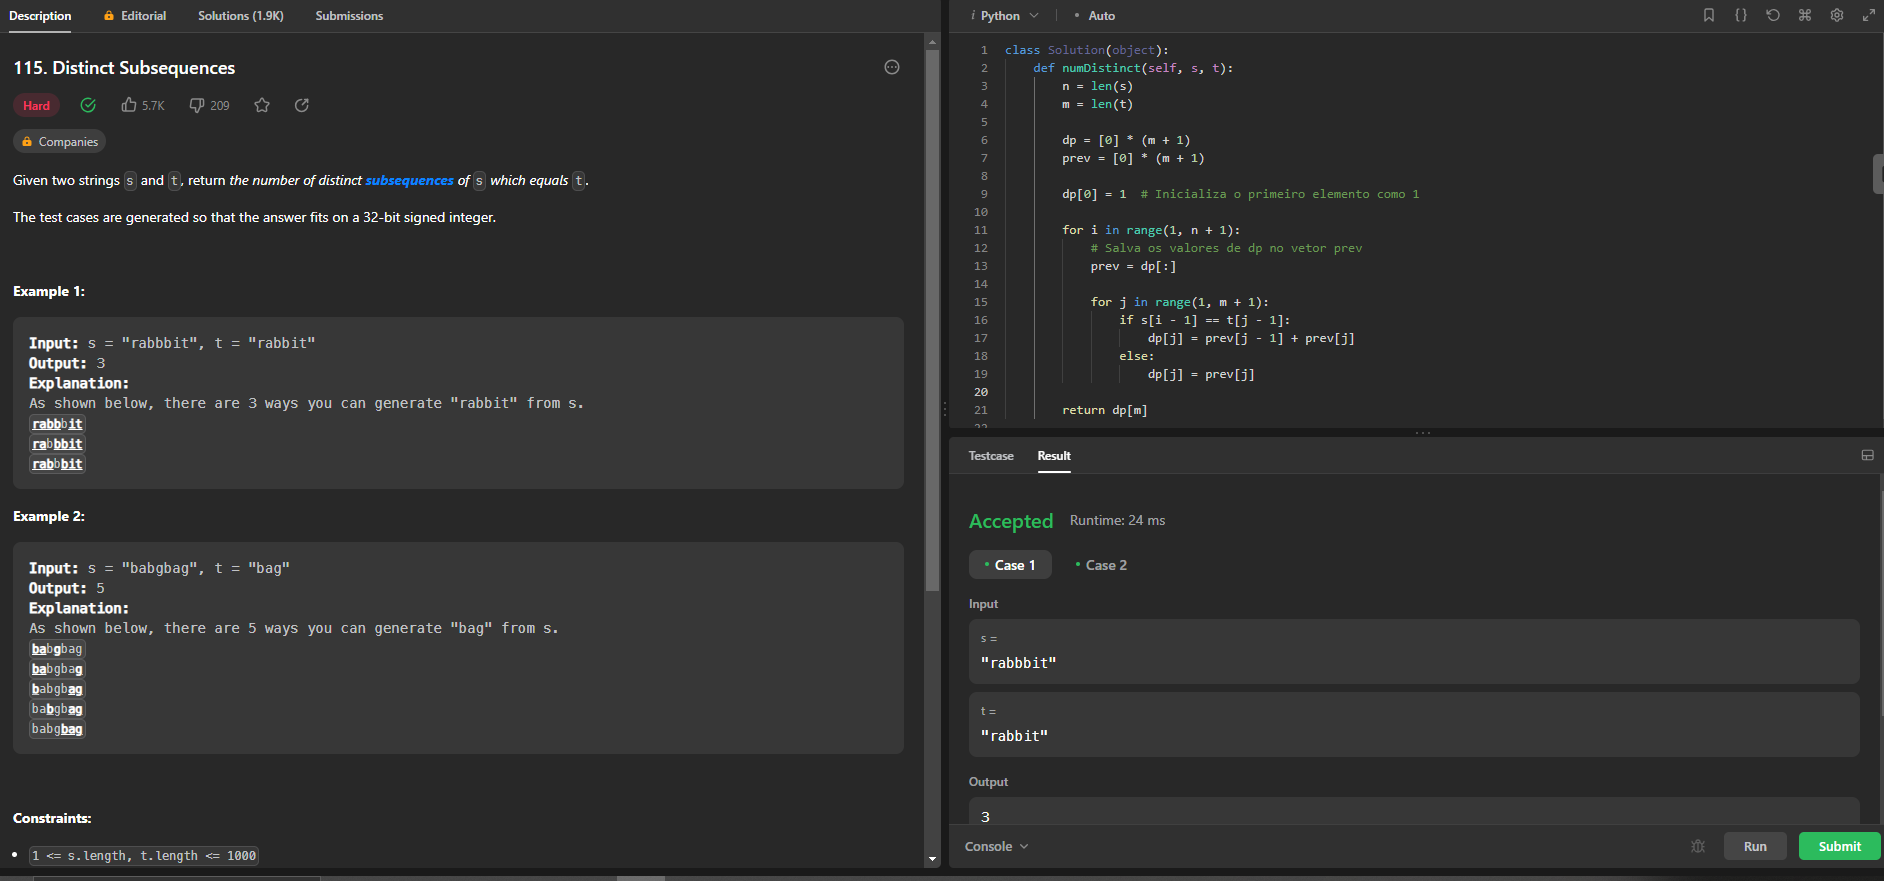
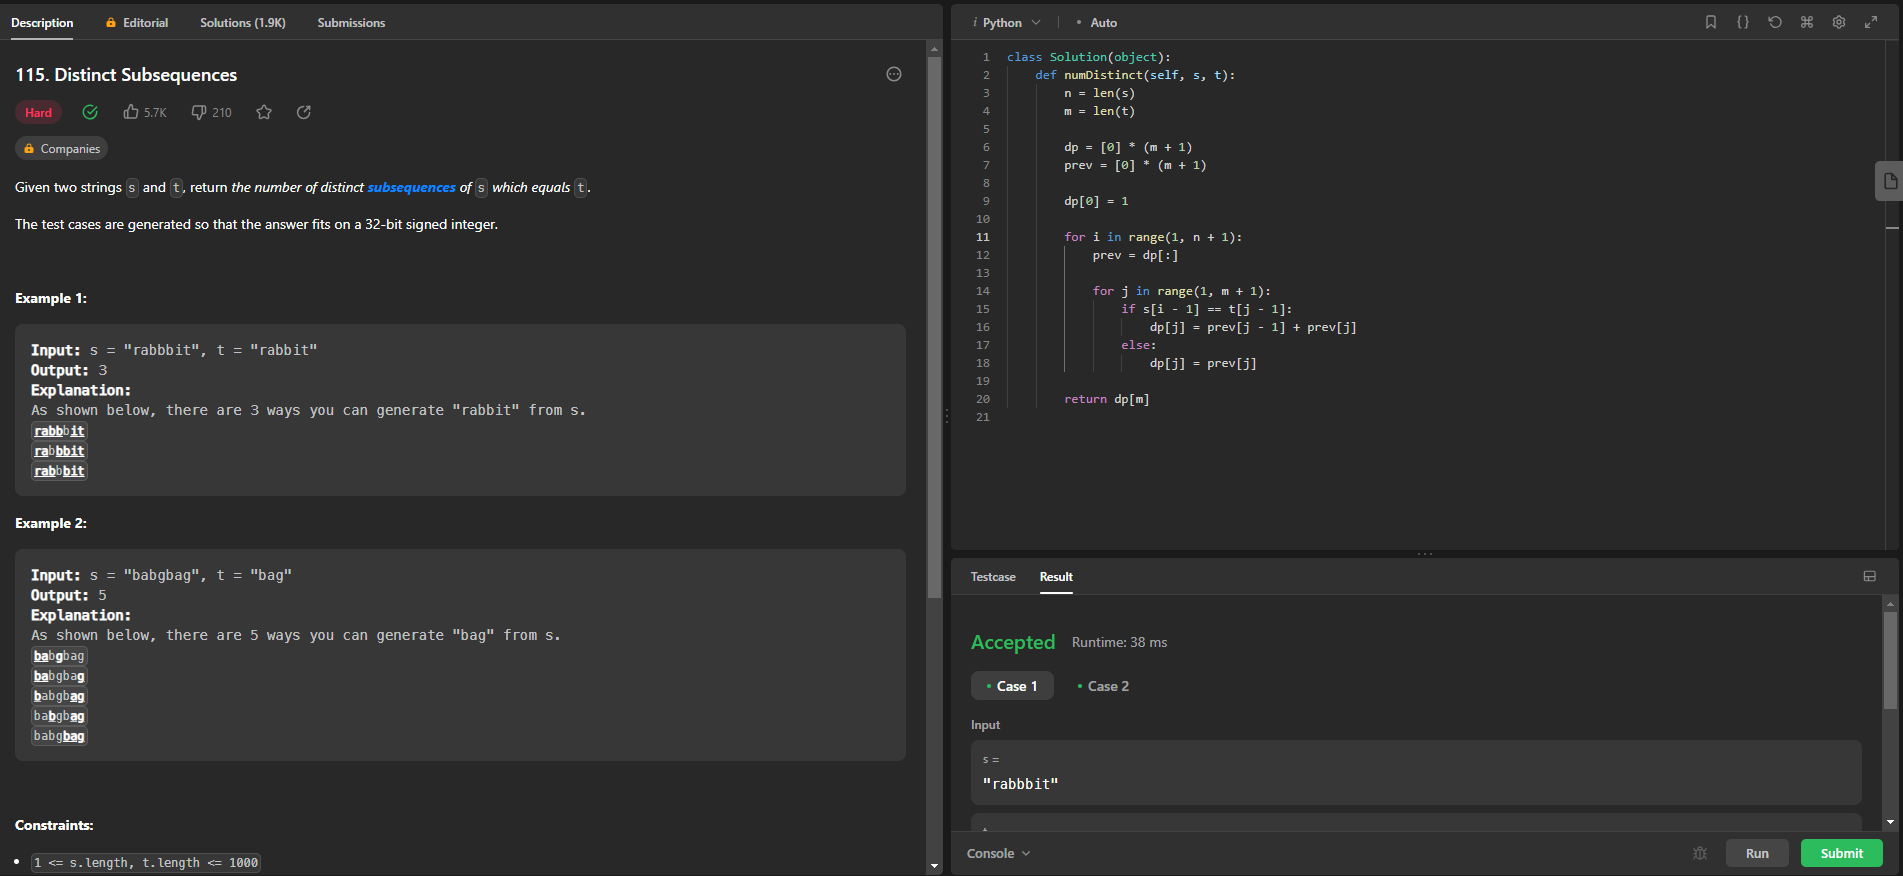
edita readme

diff --git a/Exercicios/DistinctSubsequences.py b/Exercicios/DistinctSubsequences.py
@@ -6,10 +6,9 @@ class Solution(object):
         dp = [0] * (m + 1)
         prev = [0] * (m + 1)
 
-        dp[0] = 1  # Inicializa o primeiro elemento como 1
+        dp[0] = 1 
 
         for i in range(1, n + 1):
-            # Salva os valores de dp no vetor prev
             prev = dp[:]
 
             for j in range(1, m + 1):
